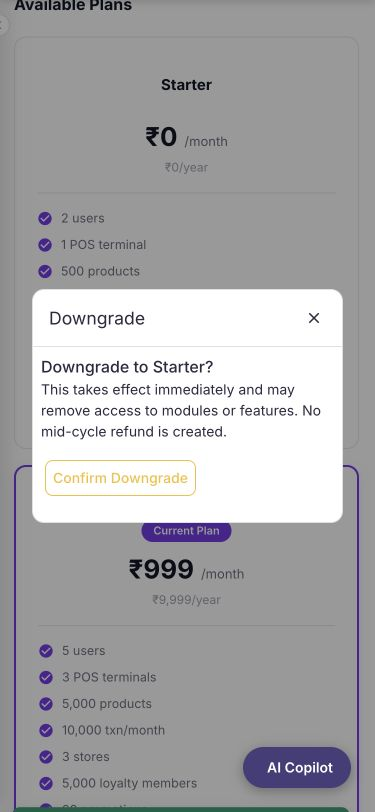
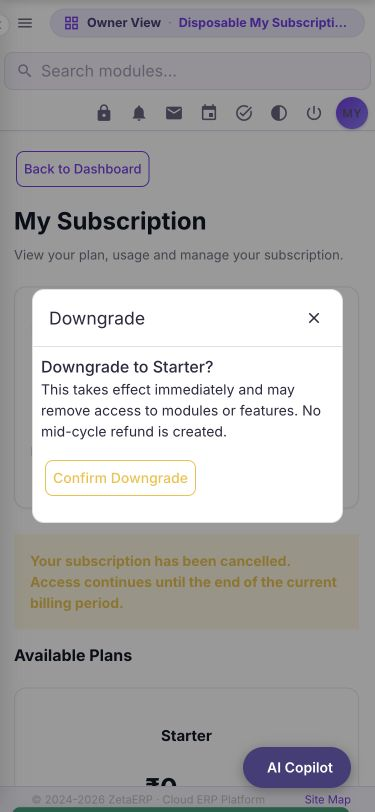
fix: keep subscription toolbar controls usable on narrow screens
Reuse the ERP grid toolbar pattern on My Subscription, reserve its measured height and align to the custom sidebar. Release the replaced mobile drawer backdrop and scroll lock while retaining real modal locking. Scope all styling and measurement to this page; bump theme and nav assets.

Verified 320/375/768/1440 viewport geometry, visible utilities, search, sidebar open/outside-dismiss, collapse/expand, dark/light, mobile confirmation and SPA navigation. Fresh Moqui suite passed 100 checks. Header UI checks left SaaS fingerprints unchanged. Disposable DB/journal removed; zero QA containers/networks/volumes.

diff --git a/component/zenith-erp-app/screen/zenithstatic/css/zenith-theme-v4.css b/component/zenith-erp-app/screen/zenithstatic/css/zenith-theme-v4.css
@@ -2567,6 +2567,25 @@ body.zq-nav .z-fitlist .q-field__messages{display:none}
 /* ================= My Subscription redesign (My_subscription.png) — TenantDashboard, both surfaces ================= */
 /* Keep the live light header on My Subscription; framework dev/test tints use #top and !important. */
 body:not(.body--dark):has(.mysub-wrap) #top{background:#fff!important}
+body.zq-nav:has(.mysub-wrap) .q-layout .q-page-container{padding-left:224px!important;padding-top:var(--zq-mysub-header-height,51px)!important}
+body.zq-nav.zq-side-collapsed:has(.mysub-wrap) .q-layout .q-page-container{padding-left:62px!important}
+body.zq-nav:has(.mysub-wrap) .q-drawer__backdrop{display:none!important}
+body.zq-nav.q-body--prevent-scroll:has(.mysub-wrap):has(.q-drawer--mobile):not(:has(.q-dialog)){position:static!important;overflow:auto!important}
+@media (max-width:1200px){
+  body.zq-nav:has(.mysub-wrap) .q-header .q-toolbar{display:grid!important;grid-template-columns:40px minmax(0,1fr) auto;gap:6px;padding:6px}
+  body.zq-nav:has(.mysub-wrap) #zq-topextra{display:contents}
+  body.zq-nav:has(.mysub-wrap) .q-toolbar>button:first-child{grid-column:1;grid-row:1}
+  body.zq-nav:has(.mysub-wrap) #zq-ownerview{grid-column:2;grid-row:1;min-width:0;max-width:100%;width:fit-content;margin:0}
+  body.zq-nav:has(.mysub-wrap) #zq-ownerview .zqov-org{min-width:0;overflow:hidden;text-overflow:ellipsis}
+  body.zq-nav:has(.mysub-wrap) .q-toolbar>button:not(:first-child){grid-column:3;max-width:96px}
+  body.zq-nav:has(.mysub-wrap) .q-toolbar>button .block{overflow:hidden;text-overflow:ellipsis;white-space:nowrap}
+  body.zq-nav:has(.mysub-wrap) #zq-search{grid-column:1/-1;grid-row:2;min-width:0;margin:0}
+  body.zq-nav:has(.mysub-wrap) #zq-search input{min-width:0}
+  body.zq-nav:has(.mysub-wrap) #zq-toolbtns{grid-column:1/-1;grid-row:3;justify-content:flex-end;flex-wrap:wrap;margin:0}
+  body.zq-nav:has(.mysub-wrap) #zq-toolbtns .zqtb-quad{display:inline-flex}
+  body.zq-nav:has(.mysub-wrap) .q-header .q-space{display:none}
+}
+@media (max-width:900px){body.zq-nav:has(.mysub-wrap) .q-layout .q-page-container,body.zq-nav.zq-side-collapsed:has(.mysub-wrap) .q-layout .q-page-container{padding-left:0!important}}
 .mysub-wrap{max-width:1300px;margin:0 auto;padding:24px;font-family:Inter,-apple-system,BlinkMacSystemFont,sans-serif;min-width:0}
 .mysub-wrap .zenith-card{padding:24px;margin-top:24px;border-radius:12px}
 .mysub-wrap .q-gutter-sm{display:flex;flex-wrap:wrap;gap:8px}

diff --git a/component/zenith-erp-app/screen/zenithstatic/js/qapps-nav.js b/component/zenith-erp-app/screen/zenithstatic/js/qapps-nav.js
@@ -312,7 +312,16 @@
         var header = document.querySelector('.q-header');
         if (header) document.body.style.setProperty('--zq-contacts-header-height', (header.offsetHeight || 51) + 'px');
     }
+    // My Subscription keeps the content below its wrapped mobile toolbar.
+    function syncMySubscriptionHeader() {
+        if (!document.querySelector('.mysub-wrap')) {
+            document.body.style.removeProperty('--zq-mysub-header-height'); return;
+        }
+        var header = document.querySelector('.q-header');
+        if (header) document.body.style.setProperty('--zq-mysub-header-height', (header.offsetHeight || 51) + 'px');
+    }
     function updateSubnav() {
+        syncMySubscriptionHeader();
         if (!subBar) return;
         var rel = location.pathname.replace(/^\/qapps\/zenith/, '') || '/';
         // Home/Dashboard landing → the "Dashboards" hub (every ERP dashboard)
@@ -381,6 +390,8 @@
         else window.addEventListener('resize', syncContactsHeader);
         if (window.ResizeObserver) new ResizeObserver(syncSalesHeader).observe(header);
         else window.addEventListener('resize', syncSalesHeader);
+        if (window.ResizeObserver) new ResizeObserver(syncMySubscriptionHeader).observe(header);
+        else window.addEventListener('resize', syncMySubscriptionHeader);
         // collapse (persisted)
         try { if (localStorage.getItem('zqSideCollapsed') === '1') body.classList.add('zq-side-collapsed'); } catch (_e) {}
         var tgl = document.getElementById('zq-side-toggle');

diff --git a/docs/qa/my-subscription-audit.md b/docs/qa/my-subscription-audit.md
@@ -18,7 +18,9 @@ Paths in the table are relative to `component/zenith-erp-saas/`, unless otherwis
 | Public webhook did not route / weak matching | `screen/saas-public/RazorpayWebhook.xml`, `SaasPaymentServices.xml` | Empty transition did not execute on bare URL; substring order matching and no persisted receipt. | Standalone POST endpoint verifies original raw body; service parses only the signed bytes, never an independently supplied map. Exact unique order + amount/currency/captured checks, receipt and invoice atomically stored, retries idempotent. | Real local HTTP HMAC fixtures: 400 invalid signature, 405 GET, wrong fields unchanged, correct capture creates one matching receipt, replay no-op, unsigned separate map ignored. |
 | Unproven reactivation / manual admin regression prevented | `SaasLifecycleServices.xml`, `SaasPaymentServices.xml`, `screen/zenith/saas/Invoices.xml` | Reactivation accepted an unconfirmed payment ID. Tightening it alone would break platform Mark Paid, whose old caller created no receipt. | Require successful own receipt + paid matching invoice and no remaining overdue invoices. Platform ADMIN manual settlement now creates an explicitly Manual receipt and audit in the same transaction; tenant callers denied. | Unpaid reactivation denied; partial manual settlement preserves suspension; final settlement reactivates; repeat is a no-op. |
 | UI styling / escaping / navigation | `TenantDashboard.xml`; `../zenith-erp-app/screen/zenithstatic/css/zenith-theme-v4.css`, `js/saas-pay.js` | Global inline utility CSS affected shared chrome and was stripped on qapps; raw plan data was unescaped; back link and payment surface handling were unreliable. | Move utilities under `.mysub-wrap`, responsive minmax grids, screen-specific portal dialog width/stacking, and bounded usage bars; escape raw values; use native dashboard link; dedicated CSRF token, per-invoice button binding, busy/retry guards and surface-preserving return. Cache-bust changed assets. | Both runtime renderers, actual viewport/UI results and screenshots in the runtime evidence. Payment unavailable path reports no fake success. |
-| Incorrect local preview header color | Framework `WebrootVue.qvt.css`; `../zenith-erp-app/screen/zenithstatic/css/zenith-theme-v4.css` | Framework `body.test #top` forces `#224422 !important`; `body.dev #top` forces grey. Their ID specificity defeats the shared `.q-header` white rule. The first preview retained that tint despite the user's required live-header appearance. | Scope the white light-mode header to the presence of `.mysub-wrap`, so it works after SPA navigation as well as a full load. Keep development/test mode enabled, preserve dark mode and all shared controls. Bump theme assets to v276. | Live read-only comparison: white `rgb(255,255,255)`. Corrected both local surfaces at 375/768/1440 widths; development mode checked separately. Search, theme toggle, native dialogs and dashboard/SPA return checked; unrelated dashboard tint remains unchanged. See `evidence/header-summary.json`. |
+| Incorrect local preview header color | Framework `WebrootVue.qvt.css`; `../zenith-erp-app/screen/zenithstatic/css/zenith-theme-v4.css` | Framework `body.test #top` forces `#224422 !important`; `body.dev #top` forces grey. Their ID specificity defeats the shared `.q-header` white rule. The first preview retained that tint despite the user's required live-header appearance. | Scope the white light-mode header to the presence of `.mysub-wrap`, so it works after SPA navigation as well as a full load. Keep development/test mode enabled, preserve dark mode and all shared controls. Bump theme assets to v277. | Live read-only comparison: white `rgb(255,255,255)`. Corrected both local surfaces at 375/768/1440 widths; development mode checked separately. Search, theme toggle, native dialogs and dashboard/SPA return checked; unrelated dashboard tint remains unchanged. See `evidence/header-summary.json`. |
+| Mobile header collision and clipped content | `../zenith-erp-app/screen/zenithstatic/css/zenith-theme-v4.css`, `js/qapps-nav.js` | The nowrap toolbar's unshrinkable organization pill collides with utilities; generic mobile CSS removes the page's top reservation. A document-width check alone missed the overlapping controls and clipped Back to Dashboard. | On My Subscription only, use the existing ERP grid-header pattern below 1200px, truncate the organization label and give search/utilities their own rows. Reserve the measured header height using the existing ResizeObserver/route-update pattern and use the actual custom-sidebar width when it opens/collapses, instead of reserving the replaced native drawer. Cache-bust nav JS to v32. | At 375px all eight utilities are visible, header height is 131px, content begins at 137px. Geometry checks require no control intersection and content below the header at 375/768/1440 widths. |
+| Hidden framework drawer blocks mobile page | Same scoped stylesheet | The custom sidebar replaces the native drawer but its backdrop and fixed body scroll lock can remain active after opening the menu. | Hide that obsolete backdrop and release its scroll lock only on this page, while preserving actual modal scroll locks. | Open menu → click outside leaves the same My Subscription URL, sidebar closed, body static/scrollable. A real confirmation modal remains fixed with its 311px card inside the 375px viewport; dismissal performs no subscription write. |
 
 ## Verification and limits
 

diff --git a/docs/qa/my-subscription-runtime/evidence/README.md b/docs/qa/my-subscription-runtime/evidence/README.md
@@ -6,6 +6,7 @@
 - `qapps-375.jpg`, `qapps-768.jpg`, `qapps-1440.jpg`: responsive Quasar screenshots.
 - `apps-375-dialog.jpg`, `qapps-375-dialog.jpg`: mobile confirmation dialogs.
 - `qapps-topbar-before.jpg`: reproduced incorrect framework test-mode header before the correction.
+- `qapps-topbar-overlap-before.jpg`: reproduced mobile organization/utility collision before wrapping and height reservation.
 - `header-summary.json`: live color comparison, corrected dev/test headers, responsive measurements and preserved controls.
 
 All images contain explicitly synthetic data. My Subscription's light header now matches live white instead of the framework dev/test tint. Development/test mode remains enabled; the Bootstrap test-mode page background is still inherited. Responsive measurements are actual `innerWidth`/`innerHeight`, not resized desktop screenshots. No full HTML, CSRF token, credentials, provider keys or customer records are attached.
